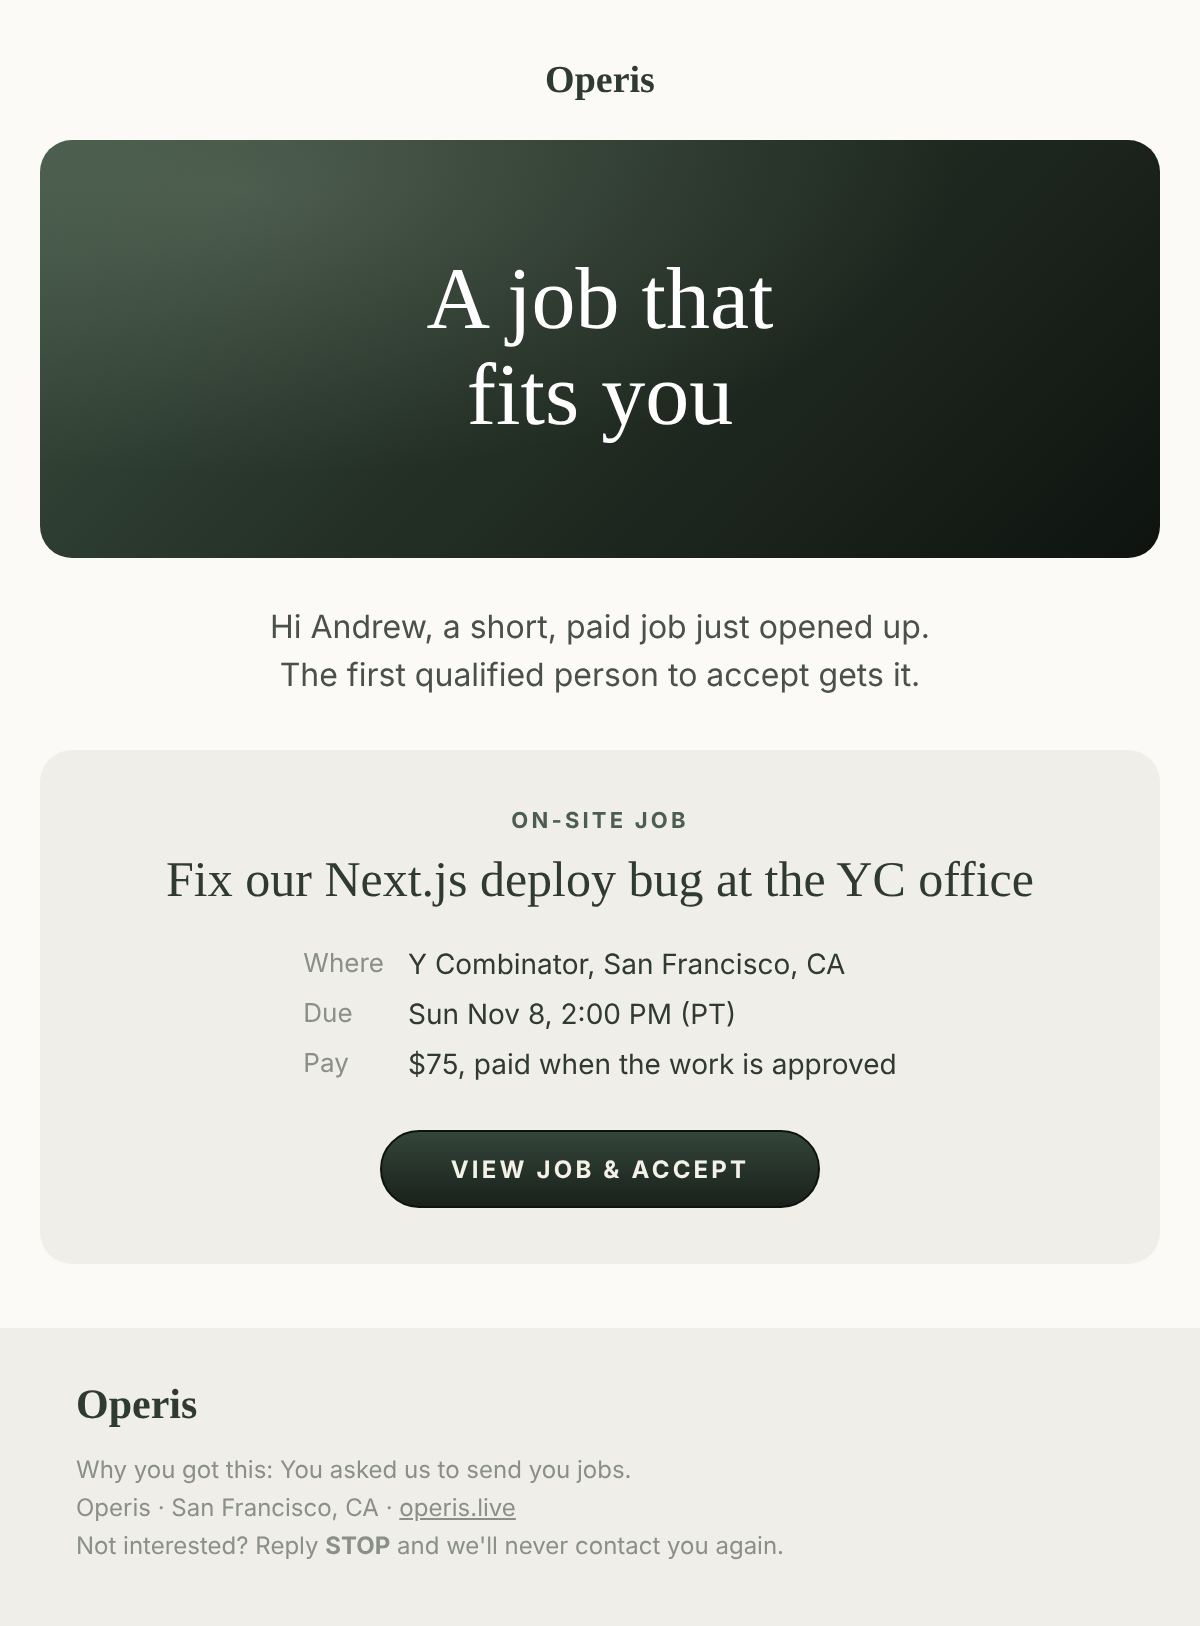
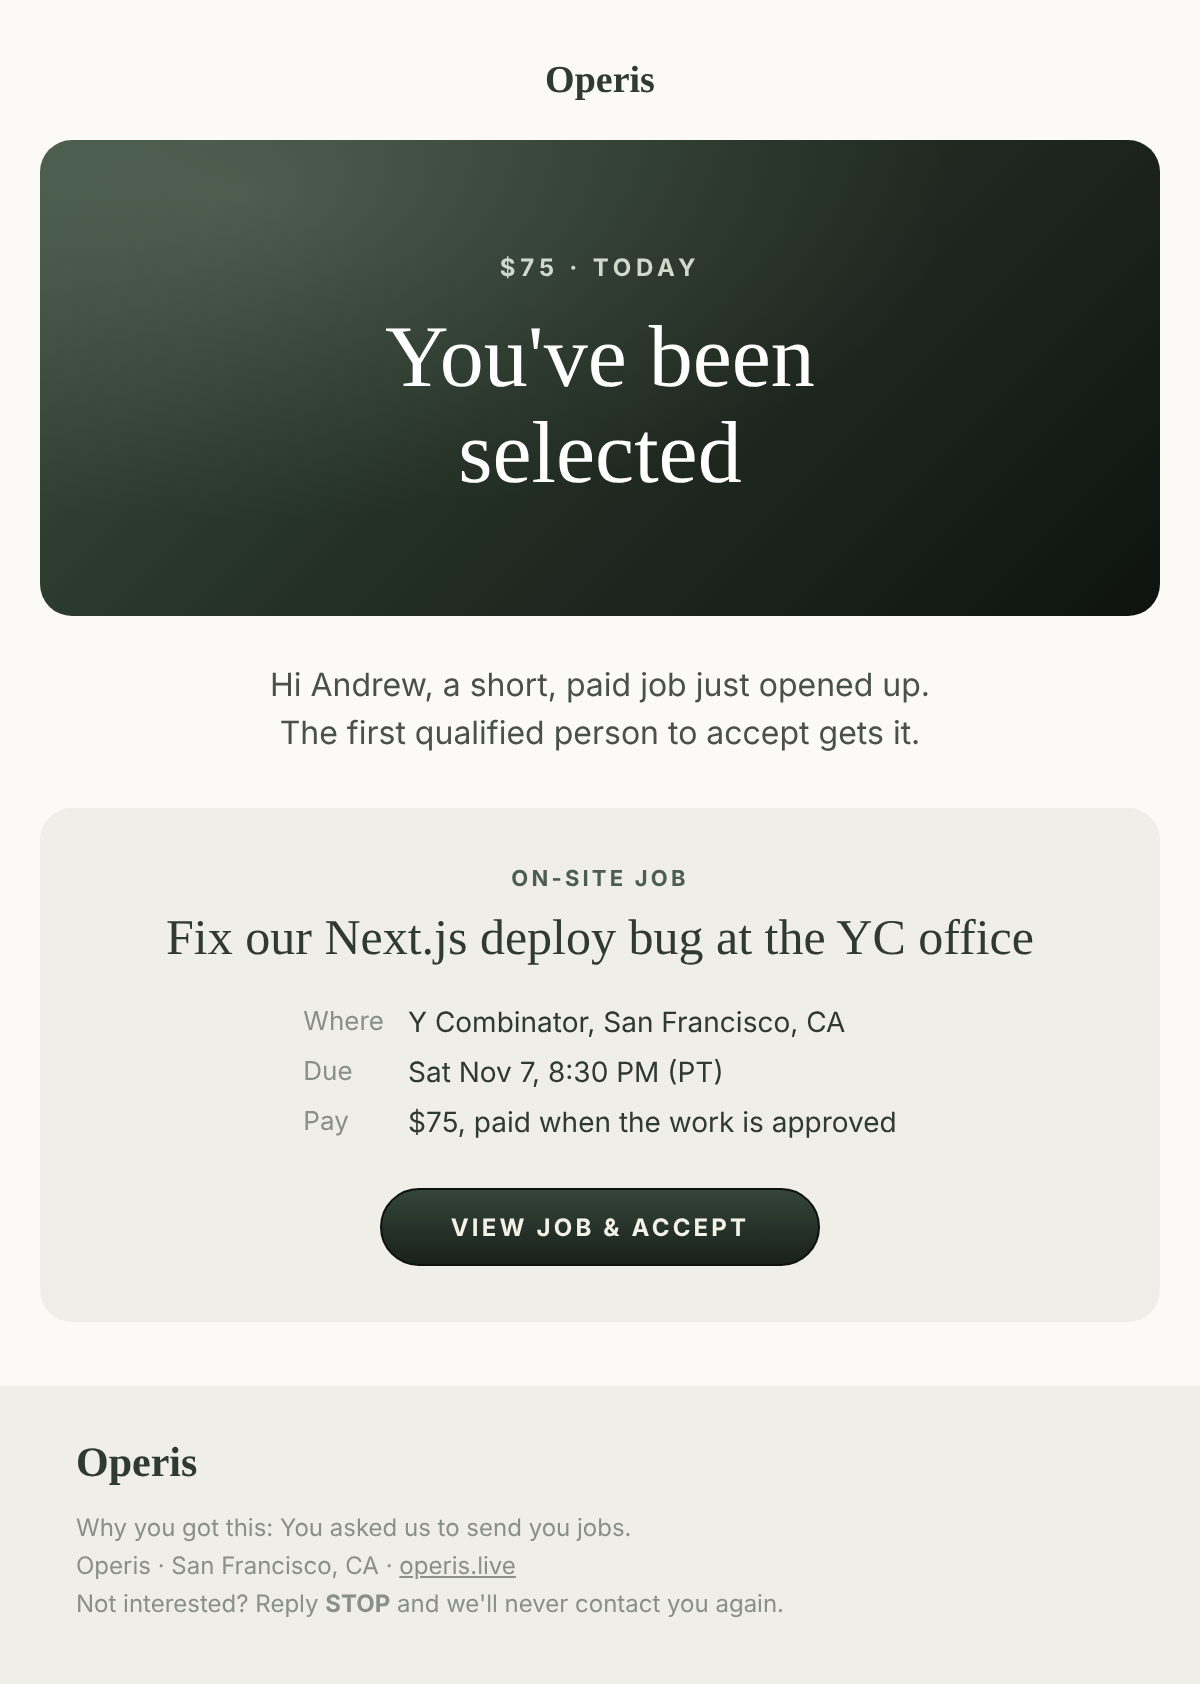
outreach: hero headline "You've been selected" with a $pay · Today/Tomorrow/date line
Claude-Session: https://claude.ai/code/session_013UukvTcgJd4HvYz8hmnpcf

diff --git a/docs/previews/invite-email.html b/docs/previews/invite-email.html
@@ -8,7 +8,8 @@
   <tr><td align="center" style="padding:6px 0 18px;font-family:Georgia,'Times New Roman',Times,serif;font-size:19px;font-weight:700;color:#2f3a33">Operis</td></tr>
 
   <tr><td bgcolor="#19211a" align="center" style="background:#19211a;background-image:radial-gradient(ellipse at 18% 12%,rgba(214,226,206,0.16) 0%,rgba(214,226,206,0) 55%),linear-gradient(135deg,#3b4f3f 0%,#243026 45%,#19211a 75%,#0e130f 100%);border-radius:16px;padding:56px 28px">
-    <div style="font-family:Georgia,'Times New Roman',Times,serif;font-size:44px;line-height:1.1;color:#ffffff">A job that<br>fits you</div>
+    <div style="font-family:-apple-system,BlinkMacSystemFont,'Segoe UI',Helvetica,Arial,sans-serif;font-size:12px;font-weight:700;letter-spacing:2.4px;text-transform:uppercase;color:#cfd9cc;margin-bottom:14px">$75 · Today</div>
+    <div style="font-family:Georgia,'Times New Roman',Times,serif;font-size:44px;line-height:1.1;color:#ffffff">You've been<br>selected</div>
   </td></tr>
 
   <tr><td align="center" style="padding:22px 20px 26px;font-family:-apple-system,BlinkMacSystemFont,'Segoe UI',Helvetica,Arial,sans-serif;font-size:16px;line-height:1.5;color:#4a514c">
@@ -18,7 +19,7 @@
   <tr><td style="background:#f0eee8;border-radius:16px;padding:28px 30px" align="center">
     <div style="font-family:-apple-system,BlinkMacSystemFont,'Segoe UI',Helvetica,Arial,sans-serif;font-size:11px;font-weight:700;letter-spacing:1.6px;text-transform:uppercase;color:#4b5e4f;margin-bottom:8px">On-site job</div>
     <div style="font-family:Georgia,'Times New Roman',Times,serif;font-size:25px;line-height:1.25;color:#2f3a33;margin-bottom:14px">Fix our Next.js deploy bug at the YC office</div>
-    <table role="presentation" cellpadding="0" cellspacing="0" style="margin:0 auto 20px;text-align:left"><tr><td style="padding:4px 12px 4px 0;font-family:-apple-system,BlinkMacSystemFont,'Segoe UI',Helvetica,Arial,sans-serif;font-size:13px;color:#8a8f8a;white-space:nowrap;vertical-align:top">Where</td><td style="padding:4px 0;font-family:-apple-system,BlinkMacSystemFont,'Segoe UI',Helvetica,Arial,sans-serif;font-size:14px;color:#2f3a33">Y Combinator, San Francisco, CA</td></tr><tr><td style="padding:4px 12px 4px 0;font-family:-apple-system,BlinkMacSystemFont,'Segoe UI',Helvetica,Arial,sans-serif;font-size:13px;color:#8a8f8a;white-space:nowrap;vertical-align:top">Due</td><td style="padding:4px 0;font-family:-apple-system,BlinkMacSystemFont,'Segoe UI',Helvetica,Arial,sans-serif;font-size:14px;color:#2f3a33">Sun Nov 8, 2:00 PM (PT)</td></tr><tr><td style="padding:4px 12px 4px 0;font-family:-apple-system,BlinkMacSystemFont,'Segoe UI',Helvetica,Arial,sans-serif;font-size:13px;color:#8a8f8a;white-space:nowrap;vertical-align:top">Pay</td><td style="padding:4px 0;font-family:-apple-system,BlinkMacSystemFont,'Segoe UI',Helvetica,Arial,sans-serif;font-size:14px;color:#2f3a33">$75, paid when the work is approved</td></tr></table>
+    <table role="presentation" cellpadding="0" cellspacing="0" style="margin:0 auto 20px;text-align:left"><tr><td style="padding:4px 12px 4px 0;font-family:-apple-system,BlinkMacSystemFont,'Segoe UI',Helvetica,Arial,sans-serif;font-size:13px;color:#8a8f8a;white-space:nowrap;vertical-align:top">Where</td><td style="padding:4px 0;font-family:-apple-system,BlinkMacSystemFont,'Segoe UI',Helvetica,Arial,sans-serif;font-size:14px;color:#2f3a33">Y Combinator, San Francisco, CA</td></tr><tr><td style="padding:4px 12px 4px 0;font-family:-apple-system,BlinkMacSystemFont,'Segoe UI',Helvetica,Arial,sans-serif;font-size:13px;color:#8a8f8a;white-space:nowrap;vertical-align:top">Due</td><td style="padding:4px 0;font-family:-apple-system,BlinkMacSystemFont,'Segoe UI',Helvetica,Arial,sans-serif;font-size:14px;color:#2f3a33">Sat Nov 7, 8:30 PM (PT)</td></tr><tr><td style="padding:4px 12px 4px 0;font-family:-apple-system,BlinkMacSystemFont,'Segoe UI',Helvetica,Arial,sans-serif;font-size:13px;color:#8a8f8a;white-space:nowrap;vertical-align:top">Pay</td><td style="padding:4px 0;font-family:-apple-system,BlinkMacSystemFont,'Segoe UI',Helvetica,Arial,sans-serif;font-size:14px;color:#2f3a33">$75, paid when the work is approved</td></tr></table>
     <a href="https://operis.live/j/Xk3pQ9aB2c-7fJ2kL0q" style="display:inline-block;background:#19211a;background-image:linear-gradient(180deg,#34453a 0%,#19211a 100%);border:1px solid #0e130f;color:#f4f1e8;text-decoration:none;font-family:-apple-system,BlinkMacSystemFont,'Segoe UI',Helvetica,Arial,sans-serif;font-size:12px;font-weight:700;letter-spacing:1.6px;text-transform:uppercase;padding:11px 34px;border-radius:999px">View job &amp; accept</a>
   </td></tr>
 

diff --git a/services/outreach/src/templates.ts b/services/outreach/src/templates.ts
@@ -112,6 +112,18 @@ export const COMPANY = {
   address: 'Operis · San Francisco, CA',
 } as const;
 
+/** Short urgency for the hero: "Today" / "Tomorrow" / "Sun Nov 8" (Pacific time), or "Open now". */
+export function urgencyLabel(deadline: string | null, now: Date = new Date()): string {
+  if (!deadline) return 'Open now';
+  const d = new Date(deadline);
+  if (Number.isNaN(d.getTime())) return 'Open now';
+  const day = (x: Date) => new Intl.DateTimeFormat('en-CA', { timeZone: 'America/Los_Angeles', year: 'numeric', month: '2-digit', day: '2-digit' }).format(x);
+  if (d.getTime() < now.getTime()) return 'Open now';
+  if (day(d) === day(now)) return 'Today';
+  if (day(d) === day(new Date(now.getTime() + 24 * 3600 * 1000))) return 'Tomorrow';
+  return new Intl.DateTimeFormat('en-US', { timeZone: 'America/Los_Angeles', weekday: 'short', month: 'short', day: 'numeric' }).format(d).replace(',', '');
+}
+
 function esc(s: string): string {
   return s.replace(/&/g, '&amp;').replace(/</g, '&lt;').replace(/>/g, '&gt;').replace(/"/g, '&quot;');
 }
@@ -195,7 +207,8 @@ export function renderEmailHtml(ctx: MessageContext): string {
   <tr><td align="center" style="padding:6px 0 18px;font-family:${serif};font-size:19px;font-weight:700;color:${C.ink}">Operis</td></tr>
 
   <tr><td bgcolor="${C.deep}" align="center" style="background:${C.deep};background-image:radial-gradient(ellipse at 18% 12%,rgba(214,226,206,0.16) 0%,rgba(214,226,206,0) 55%),linear-gradient(135deg,#3b4f3f 0%,#243026 45%,#19211a 75%,#0e130f 100%);border-radius:16px;padding:56px 28px">
-    <div style="font-family:${serif};font-size:44px;line-height:1.1;color:#ffffff">A job that<br>fits you</div>
+    <div style="font-family:${sans};font-size:12px;font-weight:700;letter-spacing:2.4px;text-transform:uppercase;color:#cfd9cc;margin-bottom:14px">${esc(`${pay} · ${urgencyLabel(job.deadline)}`)}</div>
+    <div style="font-family:${serif};font-size:44px;line-height:1.1;color:#ffffff">You've been<br>selected</div>
   </td></tr>
 
   <tr><td align="center" style="padding:22px 20px 26px;font-family:${sans};font-size:16px;line-height:1.5;color:${C.body}">

diff --git a/services/outreach/test/templates.test.ts b/services/outreach/test/templates.test.ts
@@ -145,3 +145,15 @@ describe('greeting names', () => {
     expect(greetingName({ name: 'attack! event staffing', kind: 'business' })).toBe('attack! event staffing');
   });
 });
+
+describe('urgencyLabel', () => {
+  it('says Today / Tomorrow / a date / Open now (Pacific time)', async () => {
+    const { urgencyLabel } = await import('../src/templates.js');
+    const now = new Date('2026-11-08T18:00:00Z'); // Sun 10am PT
+    expect(urgencyLabel('2026-11-08T23:00:00Z', now)).toBe('Today');
+    expect(urgencyLabel('2026-11-09T20:00:00Z', now)).toBe('Tomorrow');
+    expect(urgencyLabel('2026-11-12T20:00:00Z', now)).toBe('Thu Nov 12');
+    expect(urgencyLabel(null, now)).toBe('Open now');
+    expect(urgencyLabel('2026-11-01T00:00:00Z', now)).toBe('Open now');
+  });
+});

diff --git a/services/outreach/test/html-email.test.ts b/services/outreach/test/html-email.test.ts
@@ -14,7 +14,7 @@ describe('send_blast sends the designed HTML email', () => {
     expect(r.sent).toBe(1);
     const m = email.sent[0]!;
     expect(m.html).toContain('View job &amp; accept');
-    expect(m.html).toContain('A job that<br>fits you');
+    expect(m.html).toContain("You've been<br>selected");
     expect(m.html).toMatch(/href="https:\/\/operis\.live\/j\/[A-Za-z0-9]{10}-[A-Za-z0-9_-]{8}"/);
     expect(m.html).not.toContain('How it works');
     expect(m.body).toContain('https://operis.live/j/');
